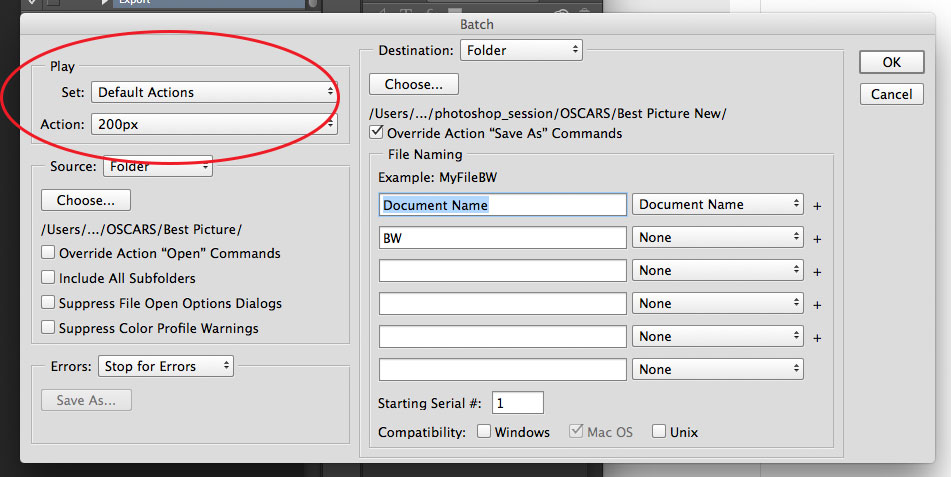
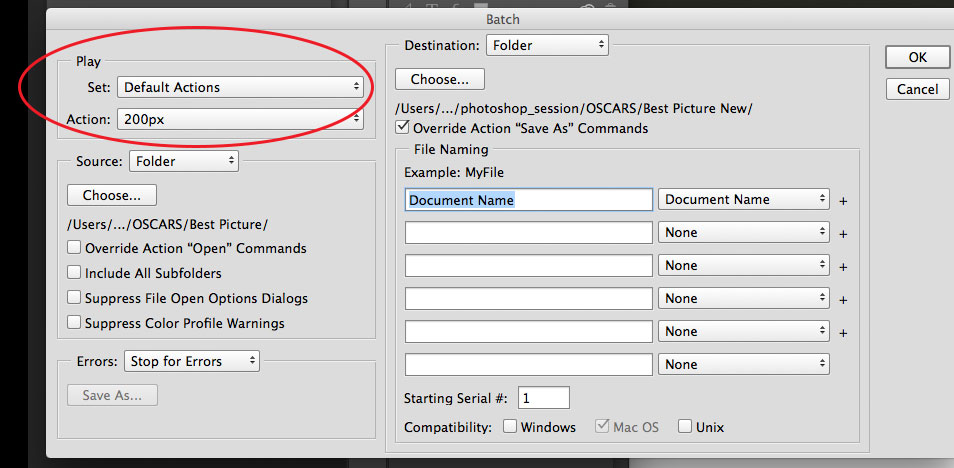
tweaks

Changed region(s): [[0.0, 0.0, 1.0, 1.0]]

diff --git a/README.md b/README.md
@@ -40,8 +40,9 @@ Do you find yourself repeating many of the same tasks again and again? You're wo
 (Best Picture) and Destination folder (Best Picture New).
 ![](https://github.com/lenagroeger/Photoshop-NICAR/blob/master/screengrabs/poster11.jpg)
 
-13. Hit "Okay", sit back and relax. Your photos will be ready momentarily.
+13. Hit "OK", sit back and relax. Your photos will be ready momentarily. You should end up with your "Best Picture New" folder full of smaller sized images!
 
+![](https://github.com/lenagroeger/Photoshop-NICAR/blob/master/screengrabs/poster12.jpg)
 
 
 ##Droplets##
